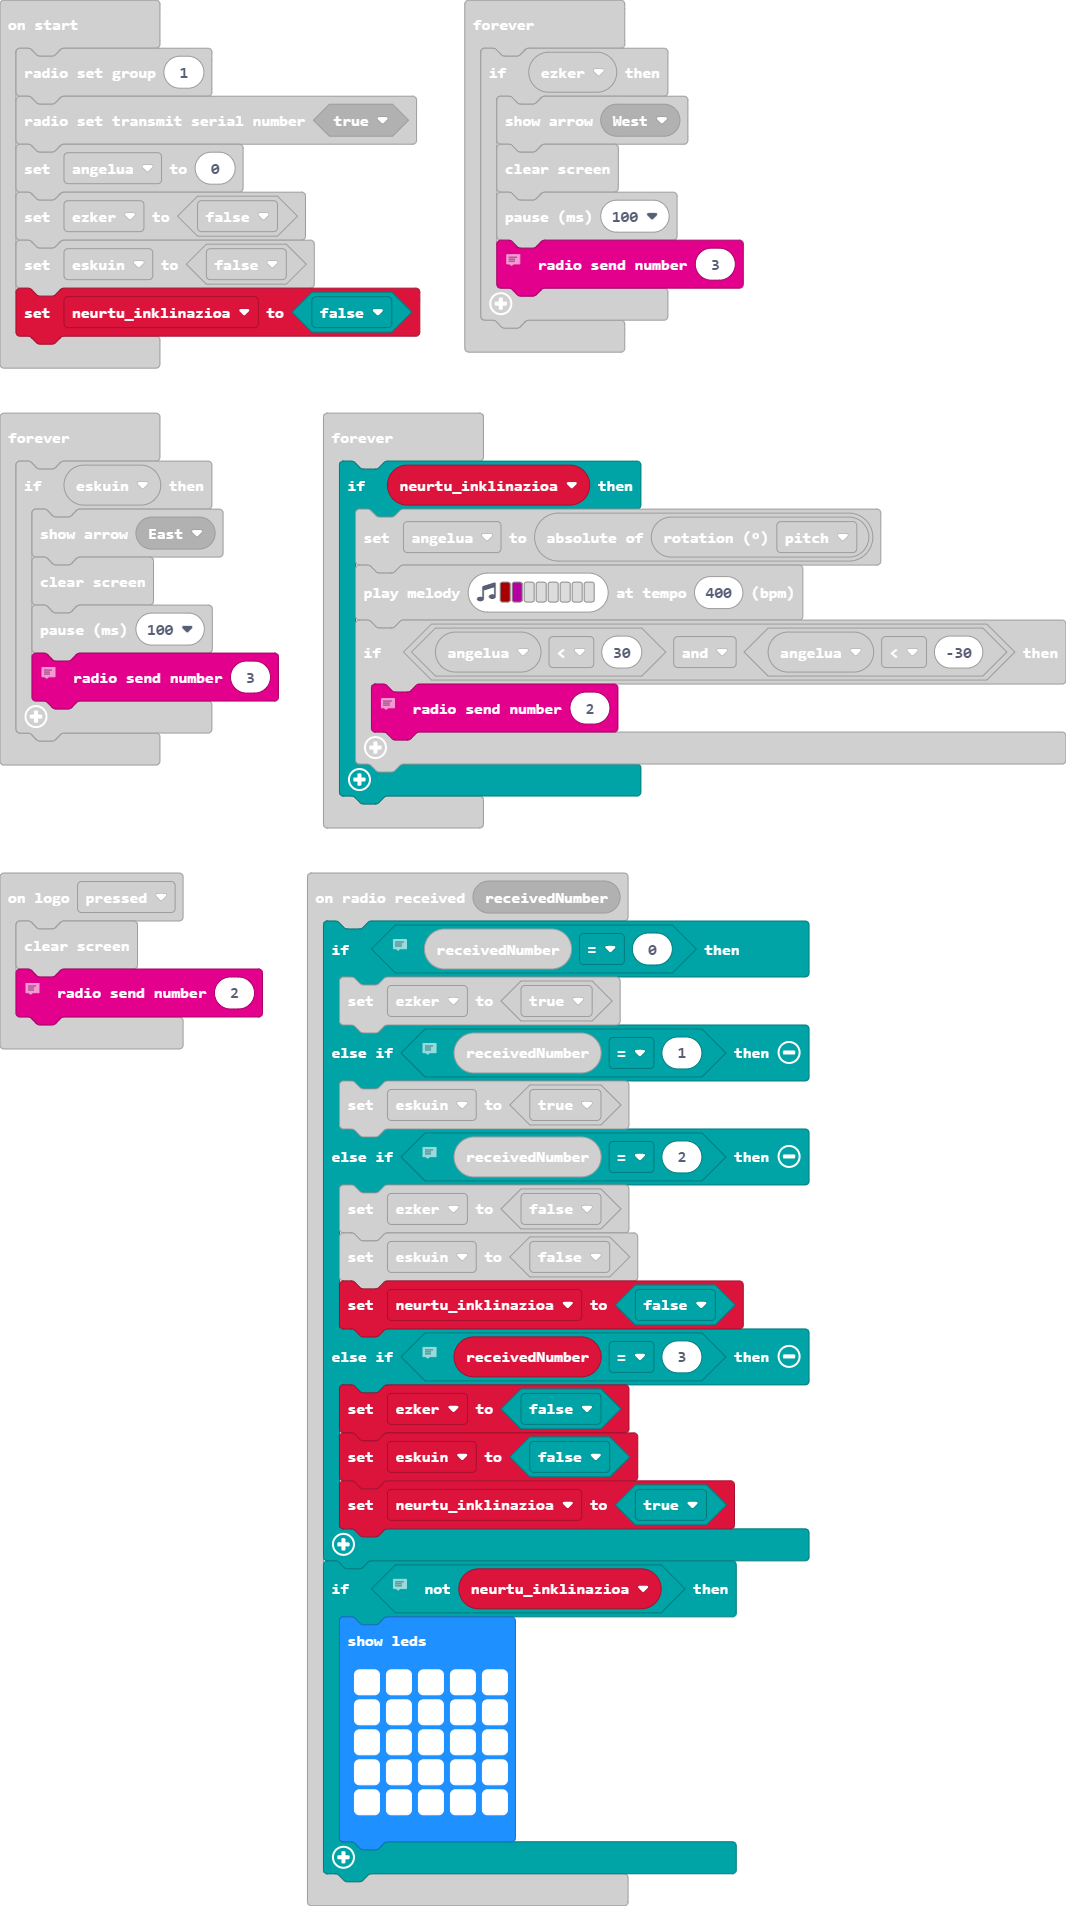
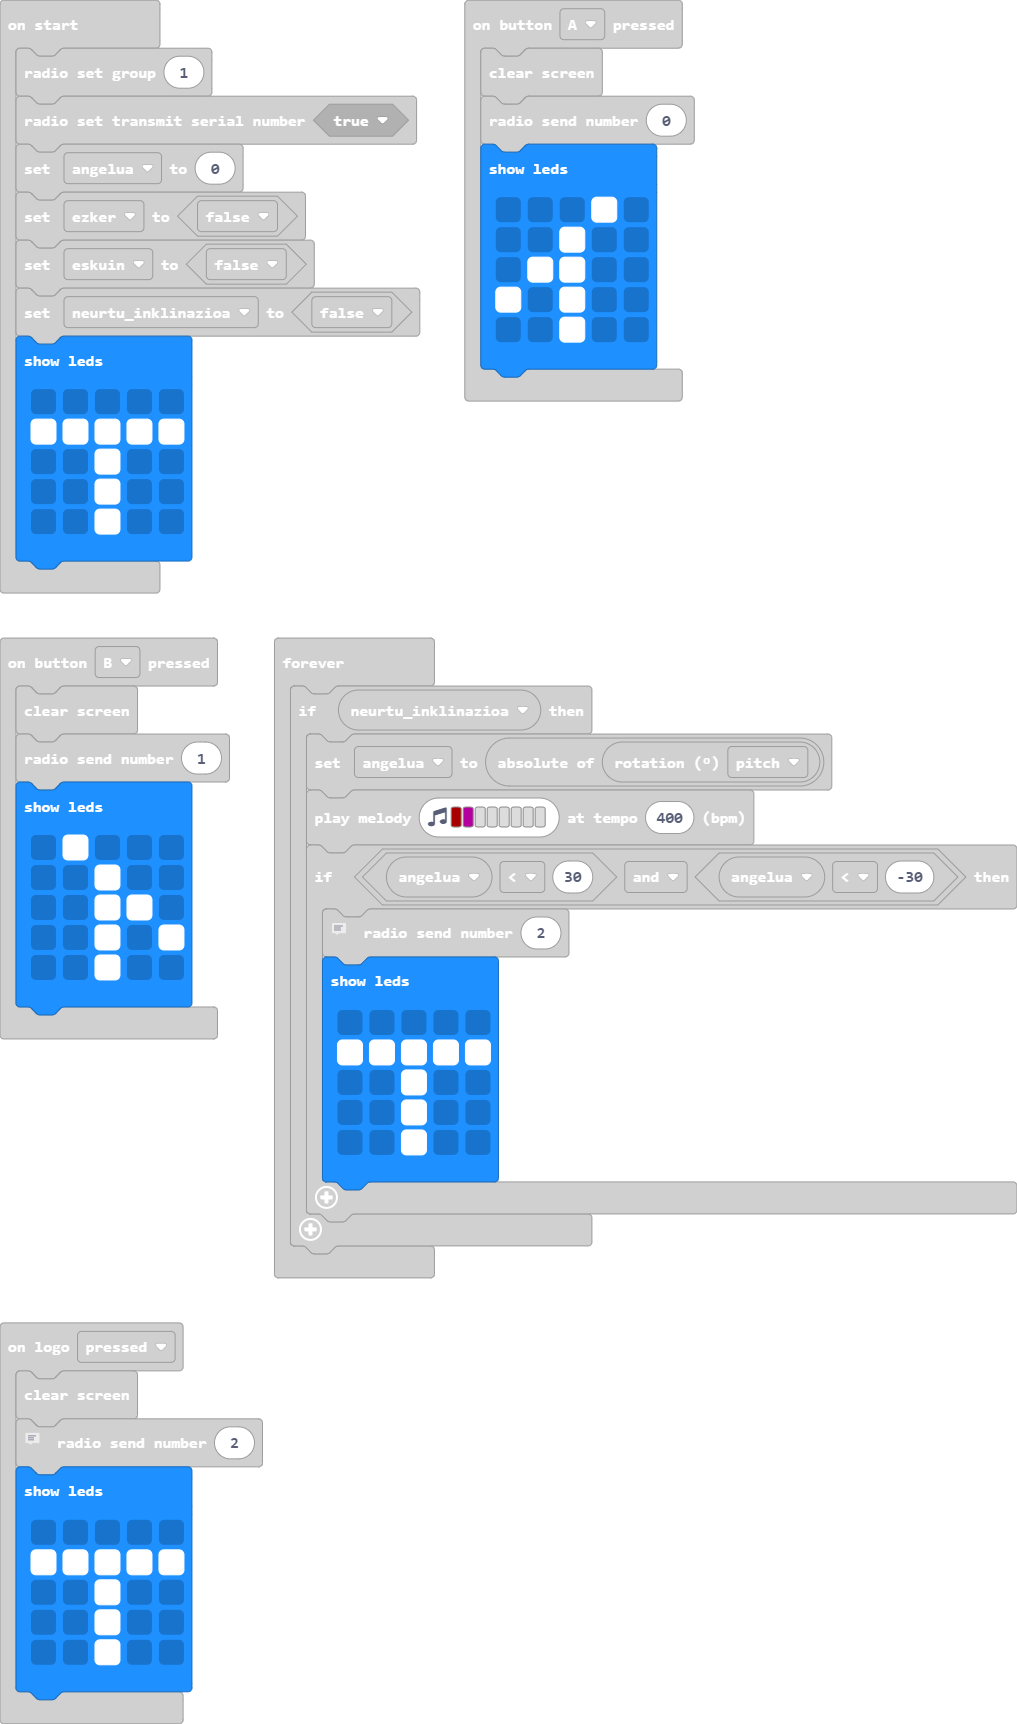
manilarra giratzeko norabide-ikonoak gehitu

diff --git a/main.ts b/main.ts
@@ -30,15 +30,36 @@ radio.onReceivedNumber(function (receivedNumber) {
 input.onButtonPressed(Button.A, function () {
     basic.clearScreen()
     radio.sendNumber(0)
+    basic.showLeds(`
+        . . . # .
+        . . # . .
+        . # # . .
+        # . # . .
+        . . # . .
+        `)
 })
 input.onButtonPressed(Button.B, function () {
     basic.clearScreen()
     radio.sendNumber(1)
+    basic.showLeds(`
+        . # . . .
+        . . # . .
+        . . # # .
+        . . # . #
+        . . # . .
+        `)
 })
 input.onLogoEvent(TouchButtonEvent.Pressed, function () {
     basic.clearScreen()
     // KEINUKARIA GELDITU
     radio.sendNumber(2)
+    basic.showLeds(`
+        . . . . .
+        # # # # #
+        . . # . .
+        . . # . .
+        . . # . .
+        `)
 })
 let neurtu_inklinazioa = false
 let eskuin = false
@@ -49,6 +70,13 @@ let angelua = 0
 ezker = false
 eskuin = false
 neurtu_inklinazioa = false
+basic.showLeds(`
+    . . . . .
+    # # # # #
+    . . # . .
+    . . # . .
+    . . # . .
+    `)
 basic.forever(function () {
     if (ezker) {
         basic.showArrow(ArrowNames.West)
@@ -74,6 +102,13 @@ basic.forever(function () {
         if (angelua < 30 && angelua < -30) {
             // KEINUKARIA GELDITU
             radio.sendNumber(2)
+            basic.showLeds(`
+                . . . . .
+                # # # # #
+                . . # . .
+                . . # . .
+                . . # . .
+                `)
         }
     }
 })
